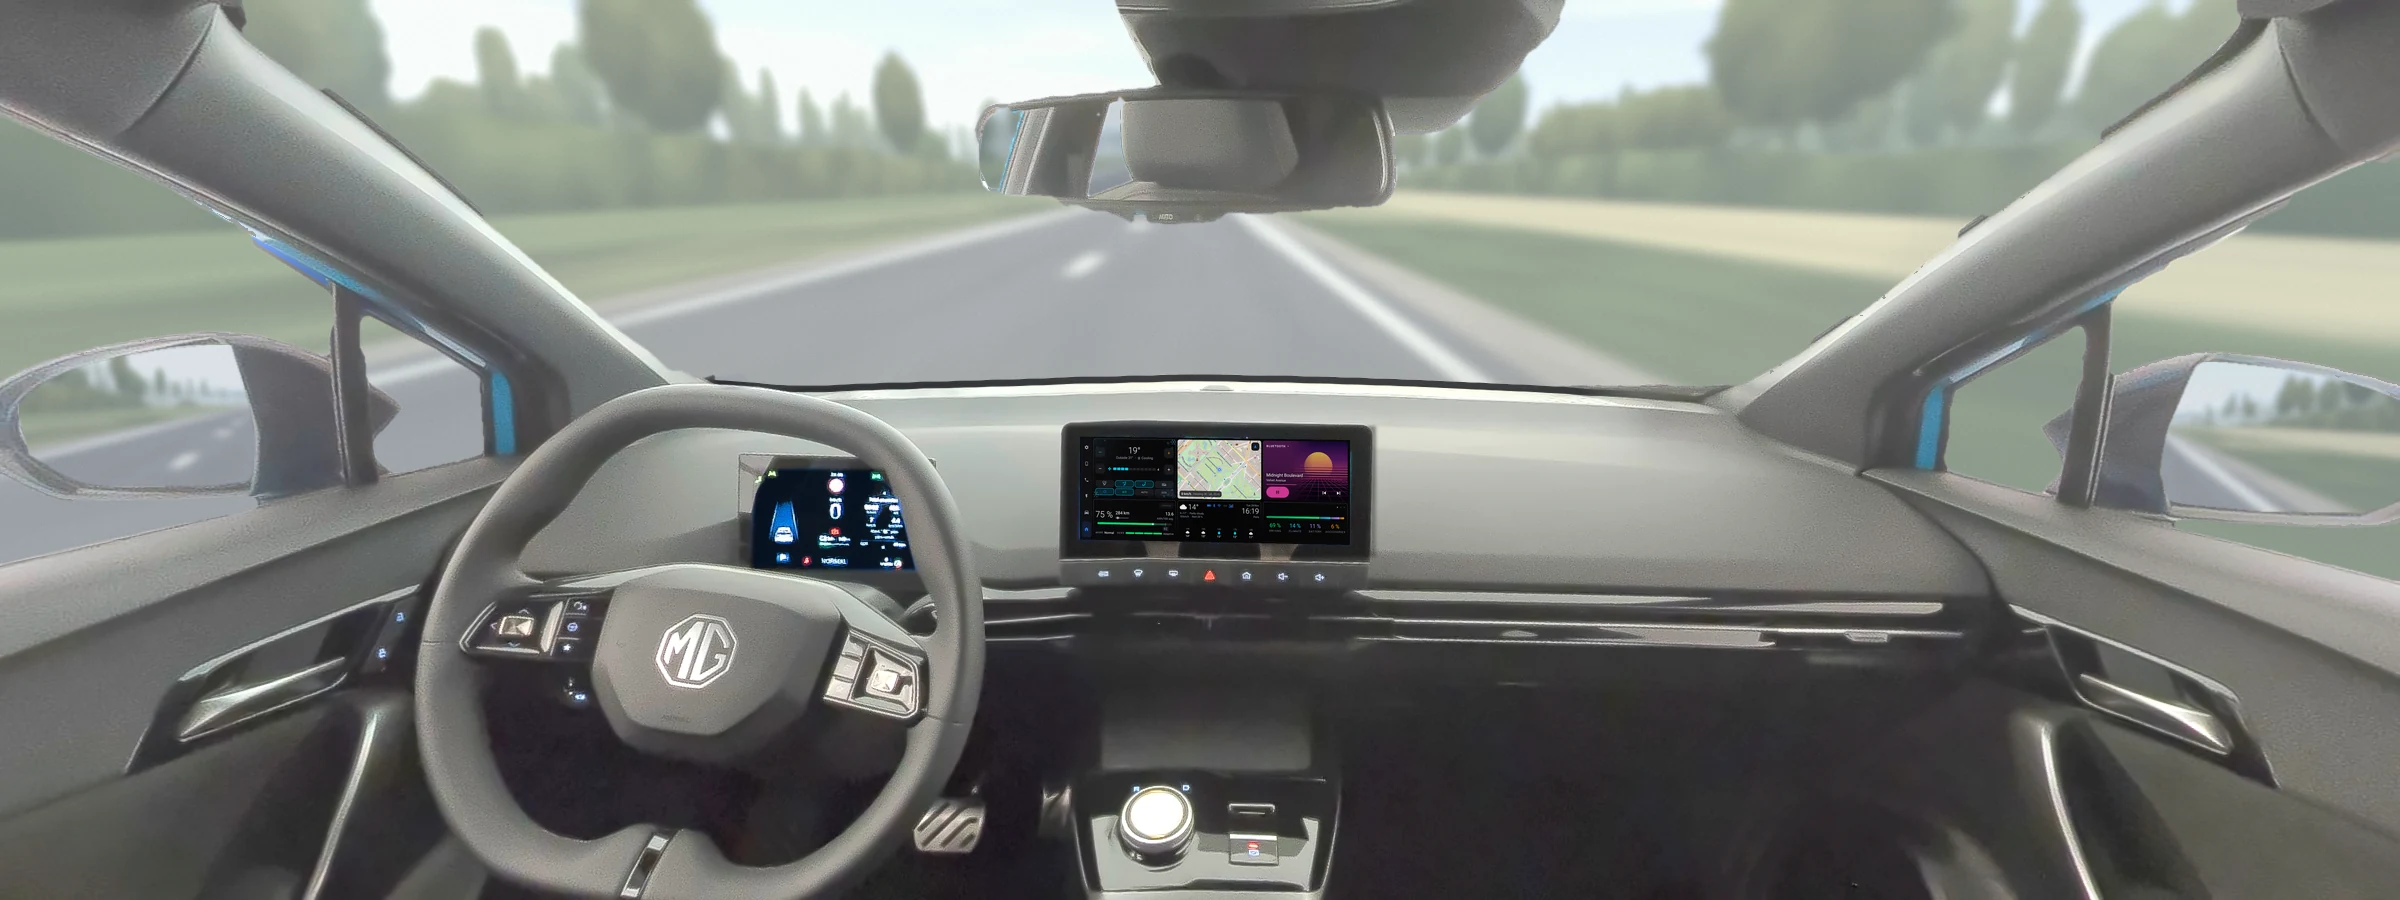
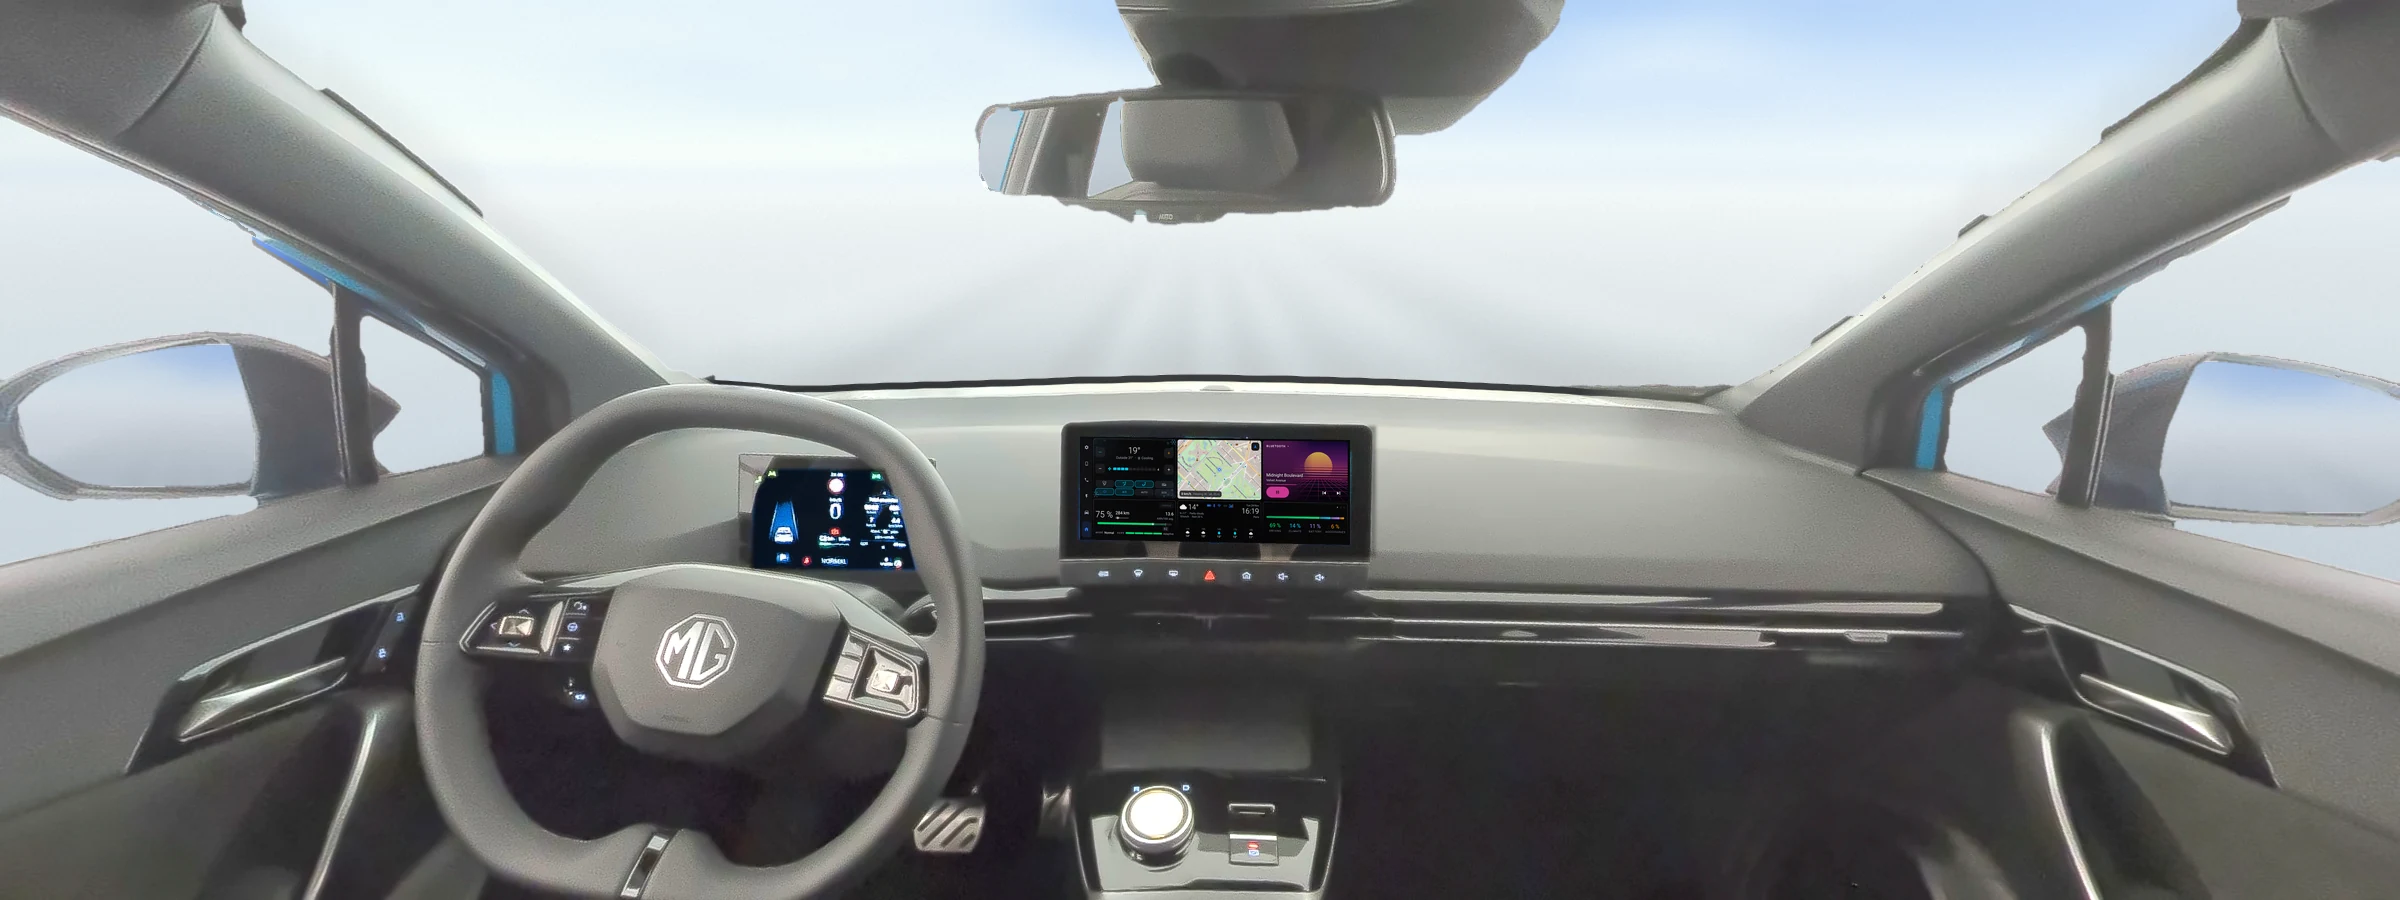
Climate: new day background (mist), the glass panels outlined and lightly shadowed on it

diff --git a/app/src/main/java/app/mg4dash/pages/ClimateActivity.kt b/app/src/main/java/app/mg4dash/pages/ClimateActivity.kt
@@ -274,11 +274,14 @@ class ClimateActivity : PageActivity() {
     private fun glass() = kit.column().apply {
         background = android.graphics.drawable.GradientDrawable().apply {
             // Day: white glass at 55 % with dark texts; night: dark glass
-            if (day) { setColor(0x8CFFFFFF.toInt()); setStroke(1, 0x26000000) } else { setColor(0xA8090C13.toInt()); setStroke(1, 0x1FFFFFFF) }
+            // Day: the near-white top of the picture needs a visible edge (26/11)
+            if (day) { setColor(0x8CFFFFFF.toInt()); setStroke(kit.dp(2), 0x4D1E2633) } else { setColor(0xA8090C13.toInt()); setStroke(1, 0x1FFFFFFF) }
             cornerRadius = kit.dp(26).toFloat()
         }
         setPadding(kit.dp(18), kit.dp(18), kit.dp(18), kit.dp(14))
-        // No elevation: the pages' outline style (FadeOutline) replaces the background of raised panels
+        // No elevation: the pages' outline style (FadeOutline) replaces the background of raised panels (5.5 dp and up);
+        // a low one in the day gives a soft shadow on the light picture
+        if (day) elevation = kit.dp(4).toFloat()
     }
 
     /** A tag on the picture where an outlet blows: windscreen, face, feet. */
